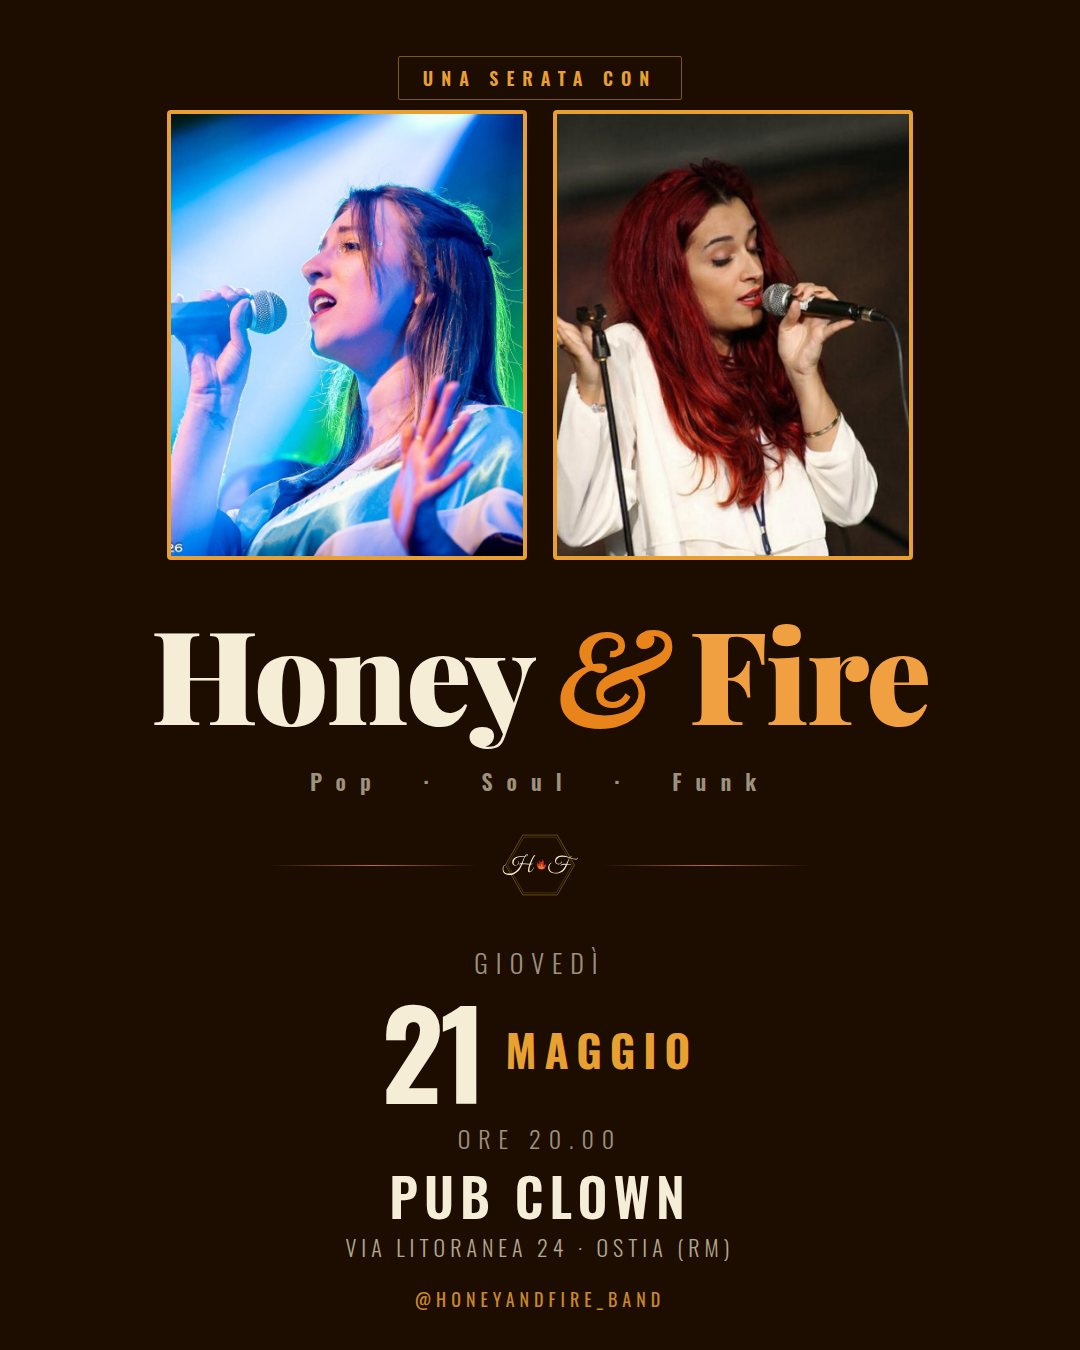
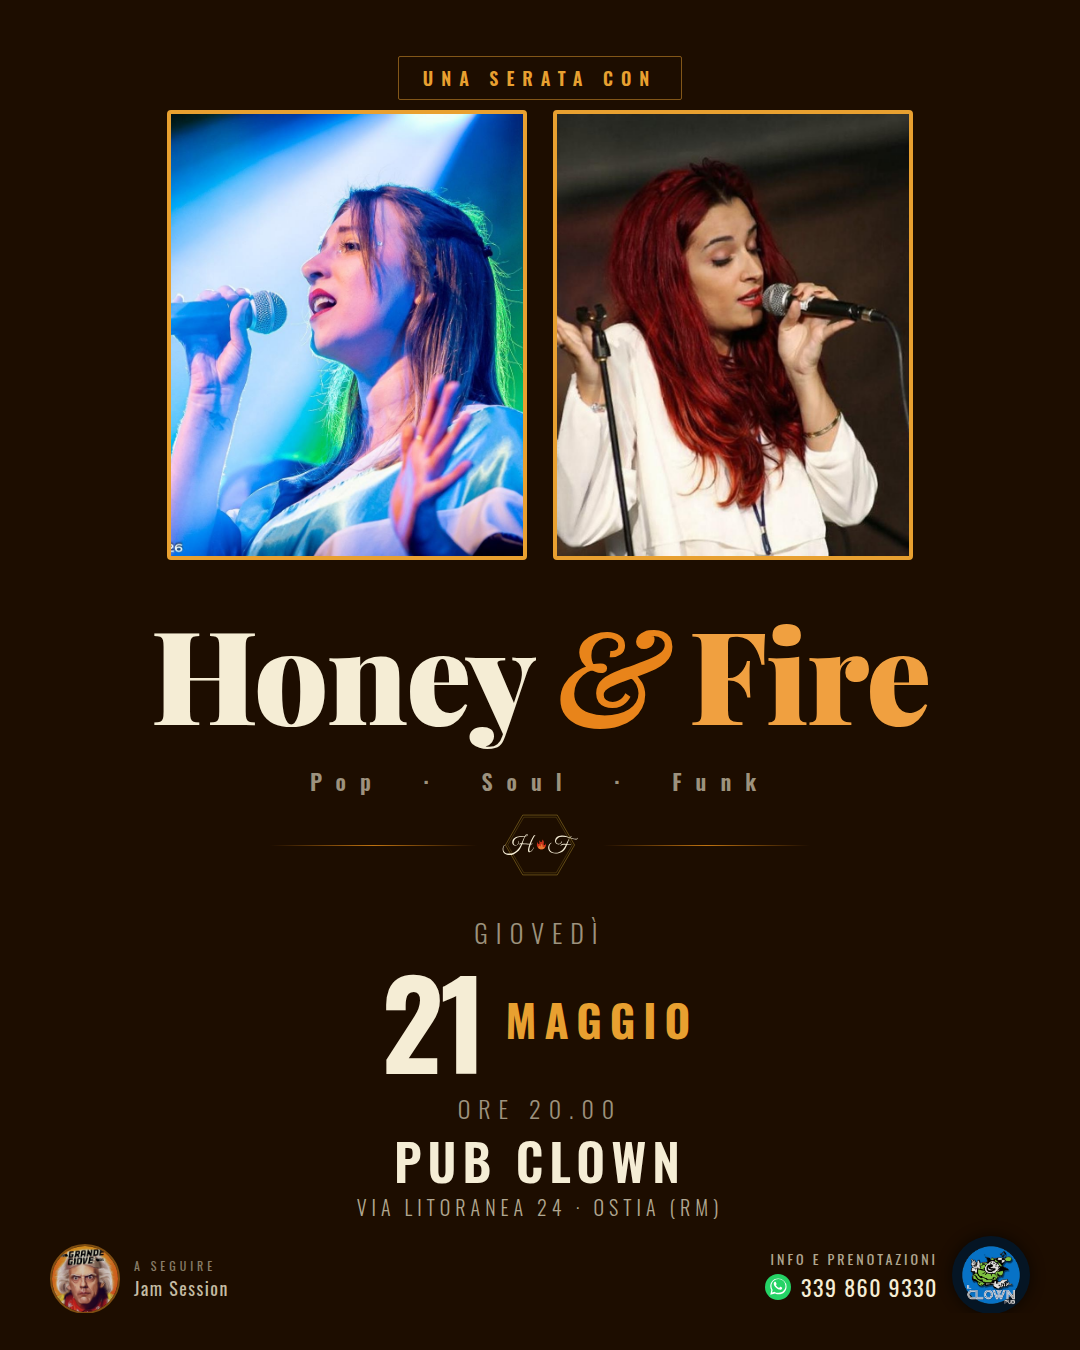
Bring back Grande Giove and reservation phone on the IG locandina
User asked to restore the two bottom badges that the simplified IG
version had dropped: the Grande Giove portrait + "a seguire / Jam
Session" label on the left, and the WhatsApp "Info e prenotazioni"
339 860 9330 + Pub Clown logo on the right. Scaled up for the
1080-wide IG canvas (jam-img 70px, venue-logo 78px, phone 22px).
Shifted the date/divider/venue blocks up so they don't collide with
the badges.

diff --git a/locandina-260521-instagram.html b/locandina-260521-instagram.html
@@ -105,7 +105,7 @@
   /* Hexagon divider */
   .divider {
     position: absolute;
-    top: 820px;
+    top: 800px;
     left: 50%;
     transform: translateX(-50%);
     display: flex;
@@ -127,7 +127,7 @@
   /* Date */
   .date-block {
     position: absolute;
-    top: 950px;
+    top: 920px;
     left: 0;
     right: 0;
     text-align: center;
@@ -177,13 +177,13 @@
   /* Venue */
   .venue {
     position: absolute;
-    top: 1170px;
+    top: 1135px;
     left: 0;
     right: 0;
     text-align: center;
   }
   .venue-name {
-    font-size: 52px;
+    font-size: 50px;
     line-height: 1;
     font-weight: 600;
     letter-spacing: 6px;
@@ -191,8 +191,8 @@
     color: #f5edd5;
   }
   .venue-address {
-    margin-top: 14px;
-    font-size: 22px;
+    margin-top: 12px;
+    font-size: 20px;
     line-height: 1;
     font-weight: 300;
     letter-spacing: 5px;
@@ -200,19 +200,81 @@
     color: rgba(245,237,213,0.7);
   }
 
-  /* IG handle at the very bottom — replaces the QRs for in-feed context. */
-  .handle {
+  /* Bottom-left: Grande Giove + "a seguire / Jam Session" badge. */
+  .jam-badge {
     position: absolute;
-    top: 1290px;
-    left: 0;
-    right: 0;
-    text-align: center;
-    font-size: 18px;
-    line-height: 1;
-    letter-spacing: 5px;
+    bottom: 36px;
+    left: 50px;
+    display: flex;
+    align-items: center;
+    gap: 14px;
+  }
+  .jam-img {
+    width: 70px;
+    height: 70px;
+    border-radius: 50%;
+    object-fit: cover;
+    border: 2px solid rgba(232,140,20,0.6);
+    filter: brightness(0.85) saturate(0.9);
+  }
+  .jam-text { text-align: left; line-height: 1.3; }
+  .jam-label {
+    font-size: 12px;
+    font-weight: 400;
+    letter-spacing: 4px;
     text-transform: uppercase;
-    color: rgba(232,160,48,0.85);
-    font-weight: 500;
+    color: rgba(245,237,213,0.5);
+  }
+  .jam-title {
+    font-weight: 400;
+    font-size: 18px;
+    letter-spacing: 1.5px;
+    color: rgba(245,237,213,0.78);
+    margin-top: 4px;
+  }
+
+  /* Bottom-right: WhatsApp prenotazioni number + Pub Clown logo. */
+  .venue-badge {
+    position: absolute;
+    bottom: 36px;
+    right: 50px;
+    display: flex;
+    align-items: center;
+    gap: 14px;
+  }
+  .venue-contact { text-decoration: none; text-align: right; color: inherit; }
+  .venue-info-label {
+    font-size: 14px;
+    font-weight: 400;
+    letter-spacing: 3px;
+    text-transform: uppercase;
+    color: rgba(245,237,213,0.7);
+    line-height: 1.3;
+    margin-bottom: 6px;
+  }
+  .venue-info-number {
+    display: flex;
+    align-items: center;
+    justify-content: flex-end;
+    gap: 10px;
+    font-size: 22px;
+    font-weight: 400;
+    letter-spacing: 1.5px;
+    color: #f5edd5;
+    line-height: 1.2;
+  }
+  .venue-info-number .wa-icon-small {
+    width: 26px;
+    height: 26px;
+    flex-shrink: 0;
+  }
+  .venue-logo {
+    width: 78px;
+    height: 78px;
+    border-radius: 50%;
+    object-fit: cover;
+    opacity: 0.88;
+    filter: drop-shadow(0 0 8px rgba(0,0,0,0.7));
   }
 </style>
 </head>
@@ -250,7 +312,27 @@
     <div class="venue-address">Via Litoranea 24 &middot; Ostia (RM)</div>
   </div>
 
-  <div class="handle">@honeyandfire_band</div>
+  <div class="jam-badge">
+    <img class="jam-img" src="images/grande_giove.png" alt="Grande Giove" />
+    <div class="jam-text">
+      <div class="jam-label">a seguire</div>
+      <div class="jam-title">Jam Session</div>
+    </div>
+  </div>
+
+  <div class="venue-badge">
+    <a class="venue-contact" href="https://wa.me/393398609330">
+      <div class="venue-info-label">Info e prenotazioni</div>
+      <div class="venue-info-number">
+        <svg class="wa-icon-small" viewBox="0 0 32 32" fill="none" xmlns="http://www.w3.org/2000/svg">
+          <circle cx="16" cy="16" r="16" fill="#25D366"/>
+          <path fill="#fff" d="M23.5 8.5A10.44 10.44 0 0016.01 5.5C10.76 5.5 6.5 9.76 6.5 15.01c0 1.68.44 3.32 1.28 4.76L6.5 25.5l5.87-1.54a10.47 10.47 0 004.64 1.09h.01c5.25 0 9.51-4.26 9.51-9.51A9.46 9.46 0 0023.5 8.5zm-7.49 14.63h-.01c-1.42 0-2.82-.38-4.04-1.1l-.29-.17-3.03.79.81-2.95-.19-.3a8.62 8.62 0 01-1.32-4.59c0-4.77 3.88-8.65 8.65-8.65a8.6 8.6 0 016.12 2.54 8.6 8.6 0 012.53 6.13c-.01 4.77-3.89 8.3-8.23 8.3zm4.74-6.48c-.26-.13-1.54-.76-1.78-.85-.24-.09-.41-.13-.58.13-.17.26-.66.85-.81 1.02-.15.17-.3.19-.56.06-.26-.13-1.1-.41-2.1-1.3-.78-.7-1.3-1.56-1.45-1.82-.15-.26-.02-.4.11-.53.12-.12.26-.3.39-.46.13-.15.17-.26.26-.43.09-.17.04-.32-.02-.45-.06-.13-.58-1.4-.8-1.92-.21-.5-.43-.43-.58-.44l-.5-.01c-.17 0-.45.06-.69.32-.24.26-.9.88-.9 2.14s.92 2.49 1.05 2.66c.13.17 1.81 2.76 4.38 3.87.61.26 1.09.42 1.46.54.61.19 1.17.16 1.61.1.49-.07 1.51-.62 1.72-1.22.21-.6.21-1.11.15-1.22-.07-.1-.24-.16-.5-.29z"/>
+        </svg>
+        <span>339 860 9330</span>
+      </div>
+    </a>
+    <img class="venue-logo" src="images/pub_clown_logo.png" alt="Il Clown Pub" />
+  </div>
 
 </div>
 </body>
